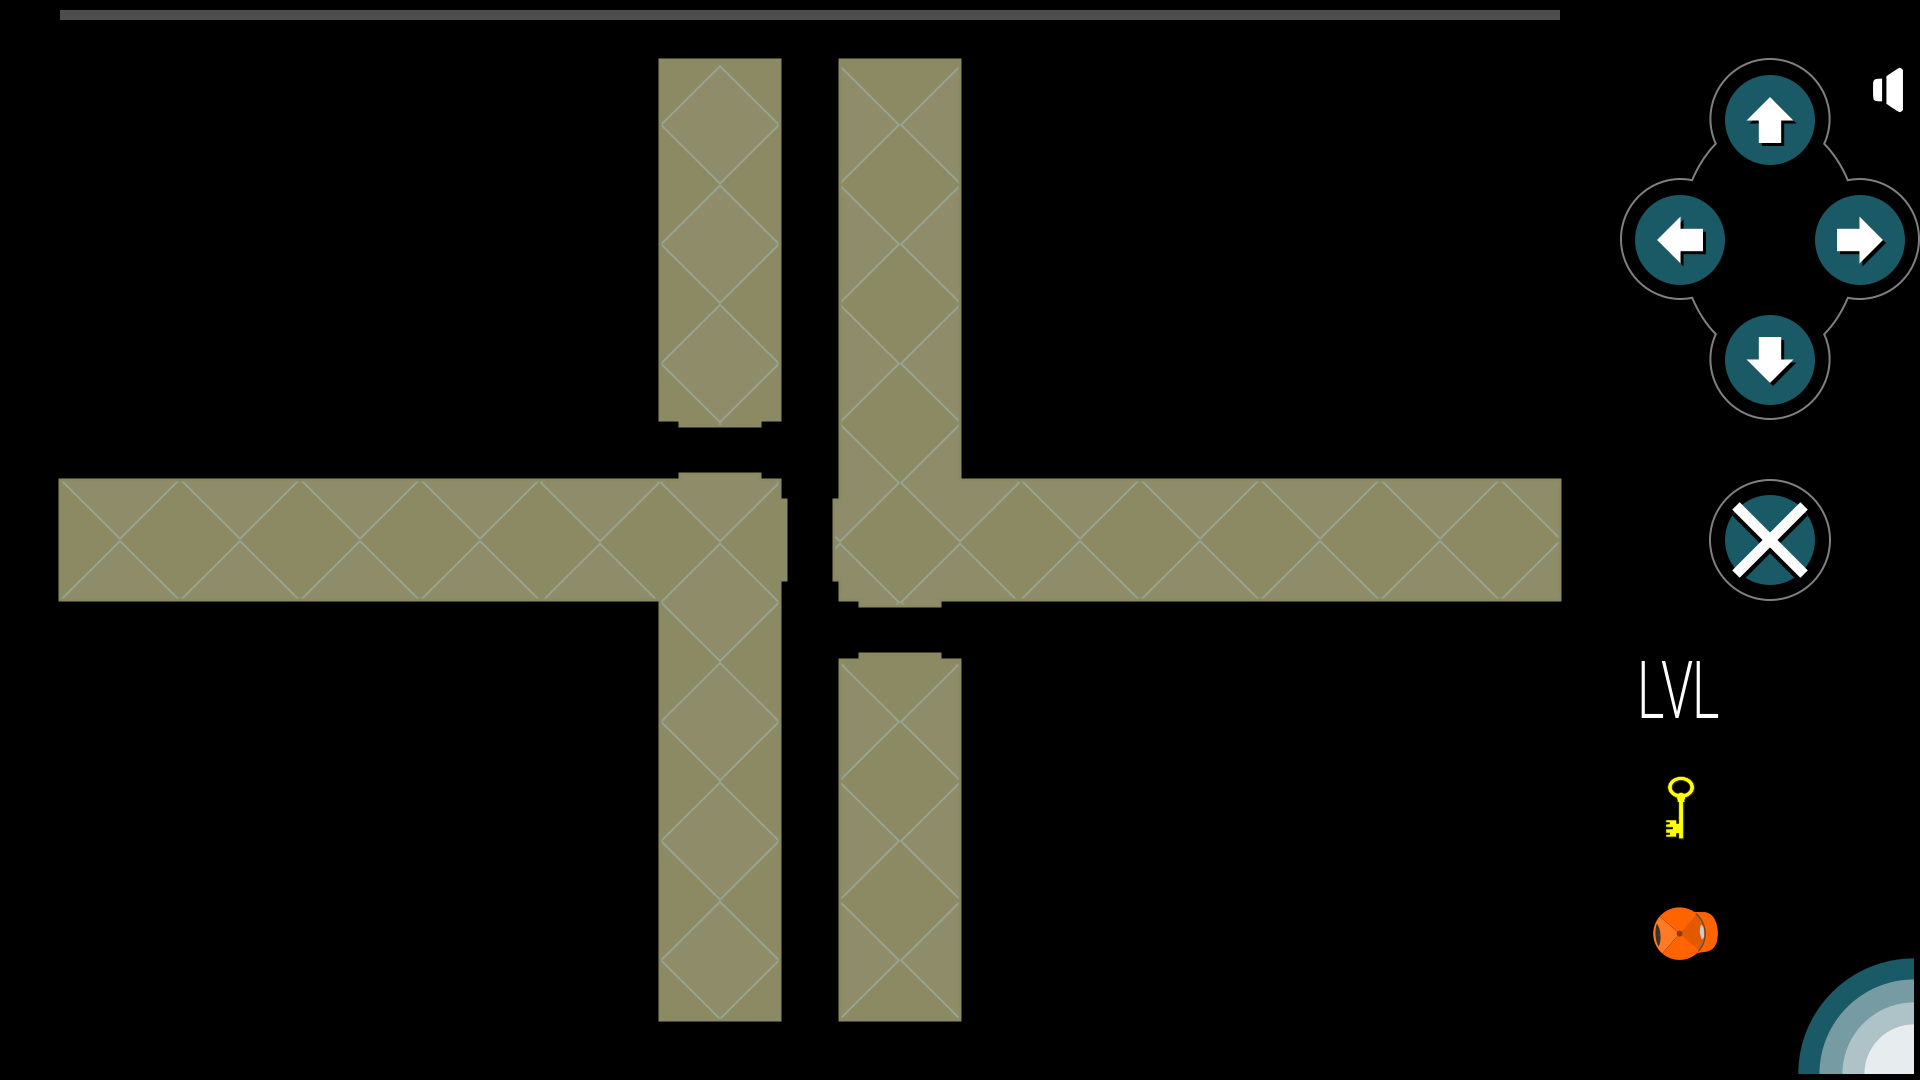
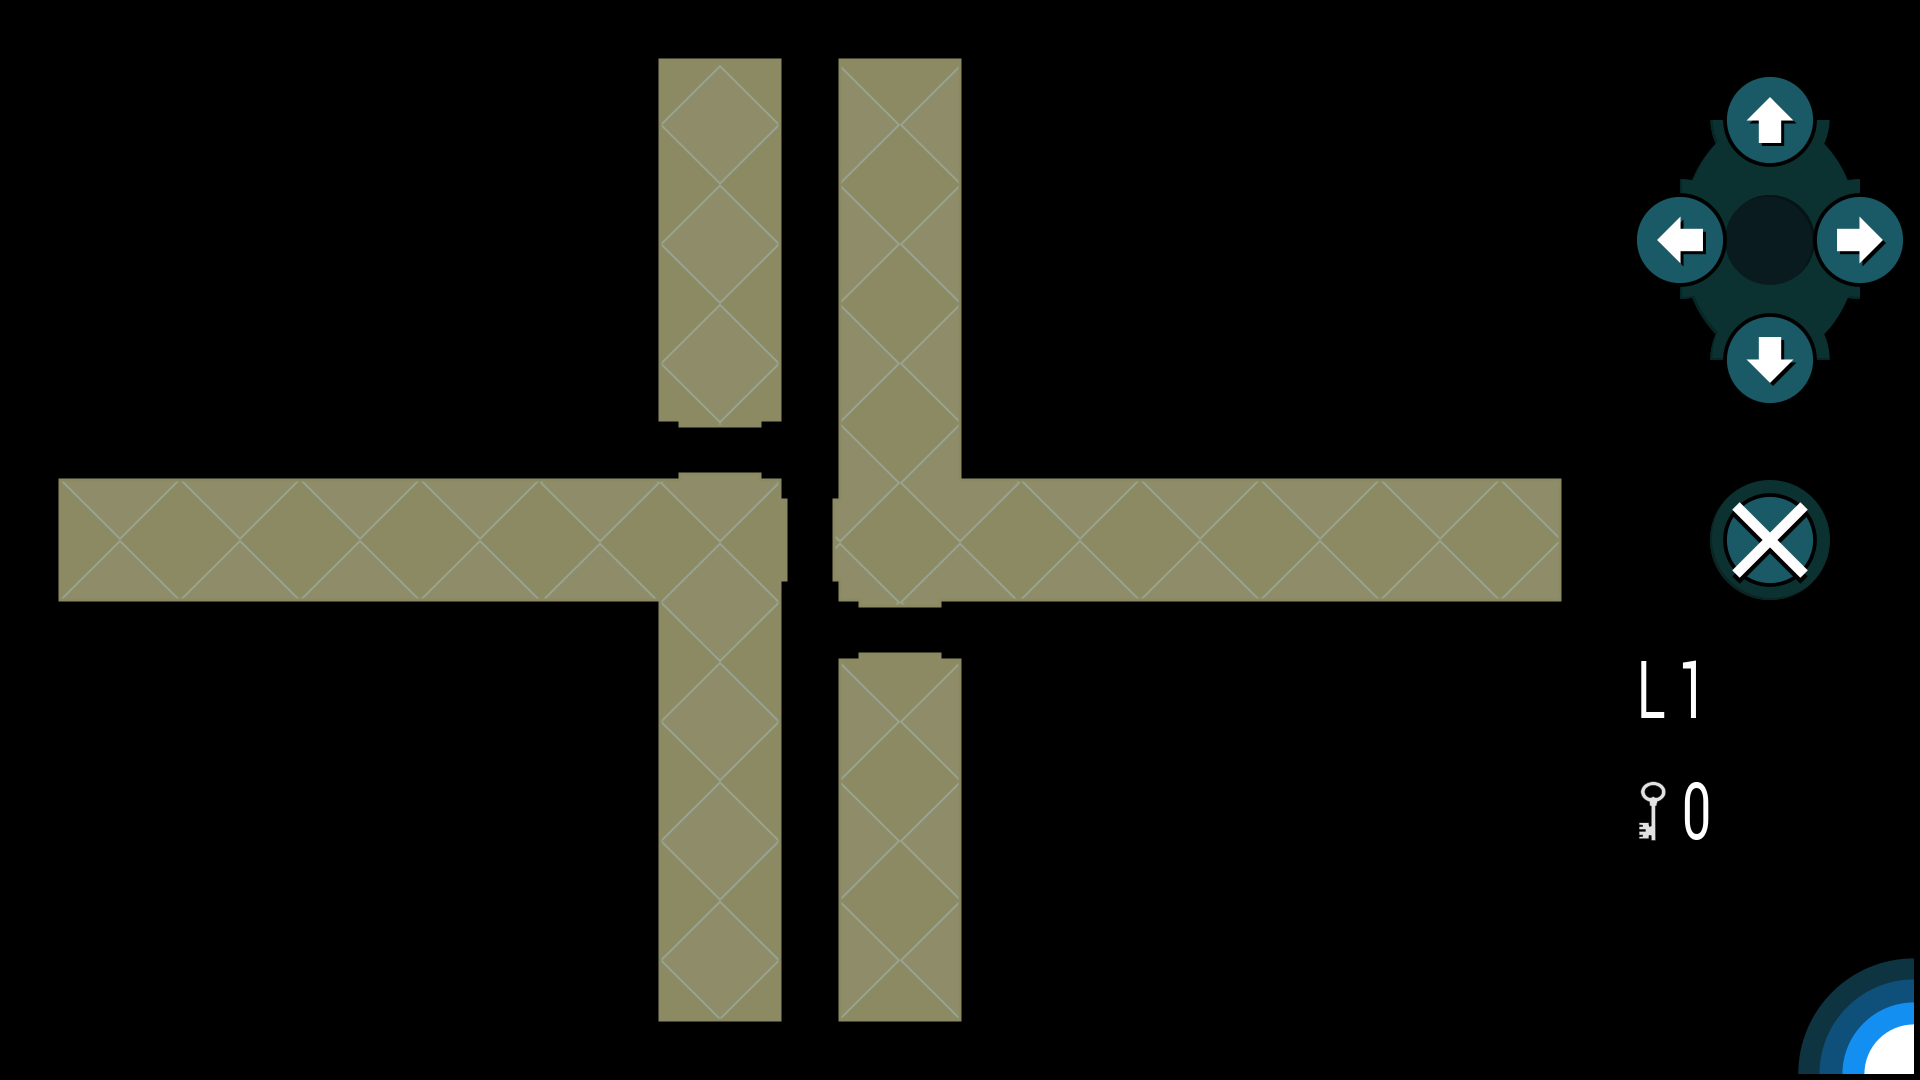
Board layout to be slightly redesigned

diff --git a/src/game/Main.java b/src/game/Main.java
@@ -33,7 +33,7 @@ public class Main extends Utils {
     private final int FRAME_LAST_IDX = 7;
     private final double FRAME_DURATION_EIST = 90000000;
     private final double FRAME_DURATION_ARTIFACT = 135000000;
-    private final double FRAME_DURATION_FALLING = 90000000;
+    private final double FRAME_DURATION_FALLING = 60000000;
 
 
     private long lastEistFrameChangeTime;
@@ -58,7 +58,7 @@ public class Main extends Utils {
         root.getChildren().add(canvas);
         gc = canvas.getGraphicsContext2D();
 
-        Font sansSerif = Font.font("SansSerif", FontWeight.NORMAL, 20);
+        Font sansSerif = Font.font("SansSerif", FontWeight.NORMAL, 30);
         gc.setFont(sansSerif);
 
         eist = new Player();
@@ -541,7 +541,9 @@ public class Main extends Utils {
          * Just for testing purposes:
          */
         gc.setFill(Color.WHITE);
-        gc.fillText(String.valueOf((int) mFps), columns[0], rows[18]);
+        //gc.fillText(String.valueOf((int) mFps), columns[0], rows[18]);
+        gc.fillText(String.valueOf(mCurrentLevel), columns[28], rows[12]);
+        gc.fillText(String.valueOf(eist.getKeys()), columns[28], rows[14]);
     }
 
     private void updateBoard() {
